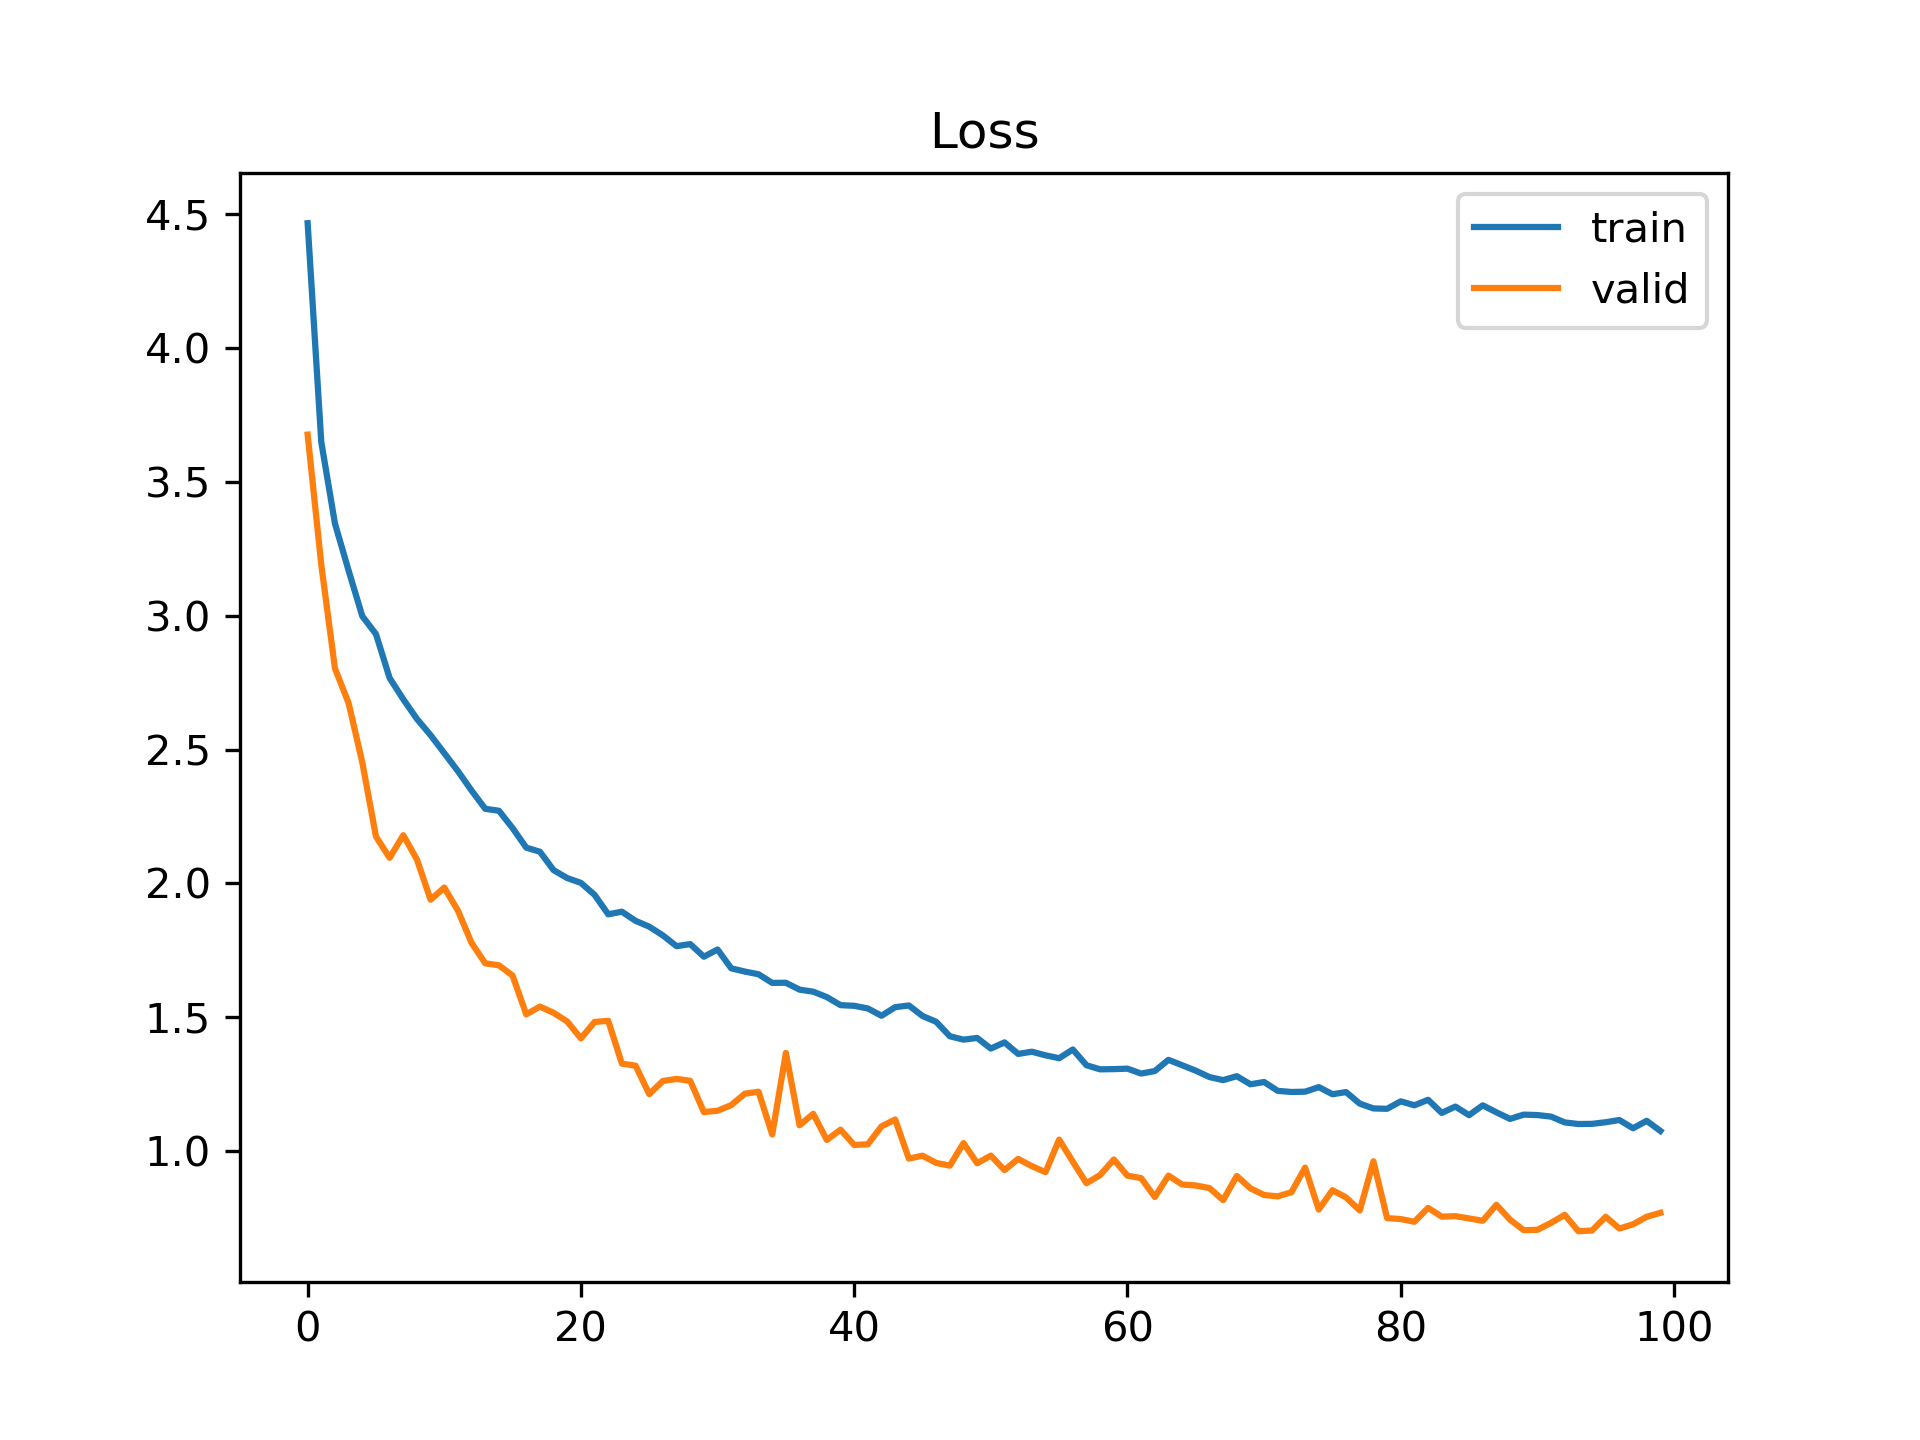
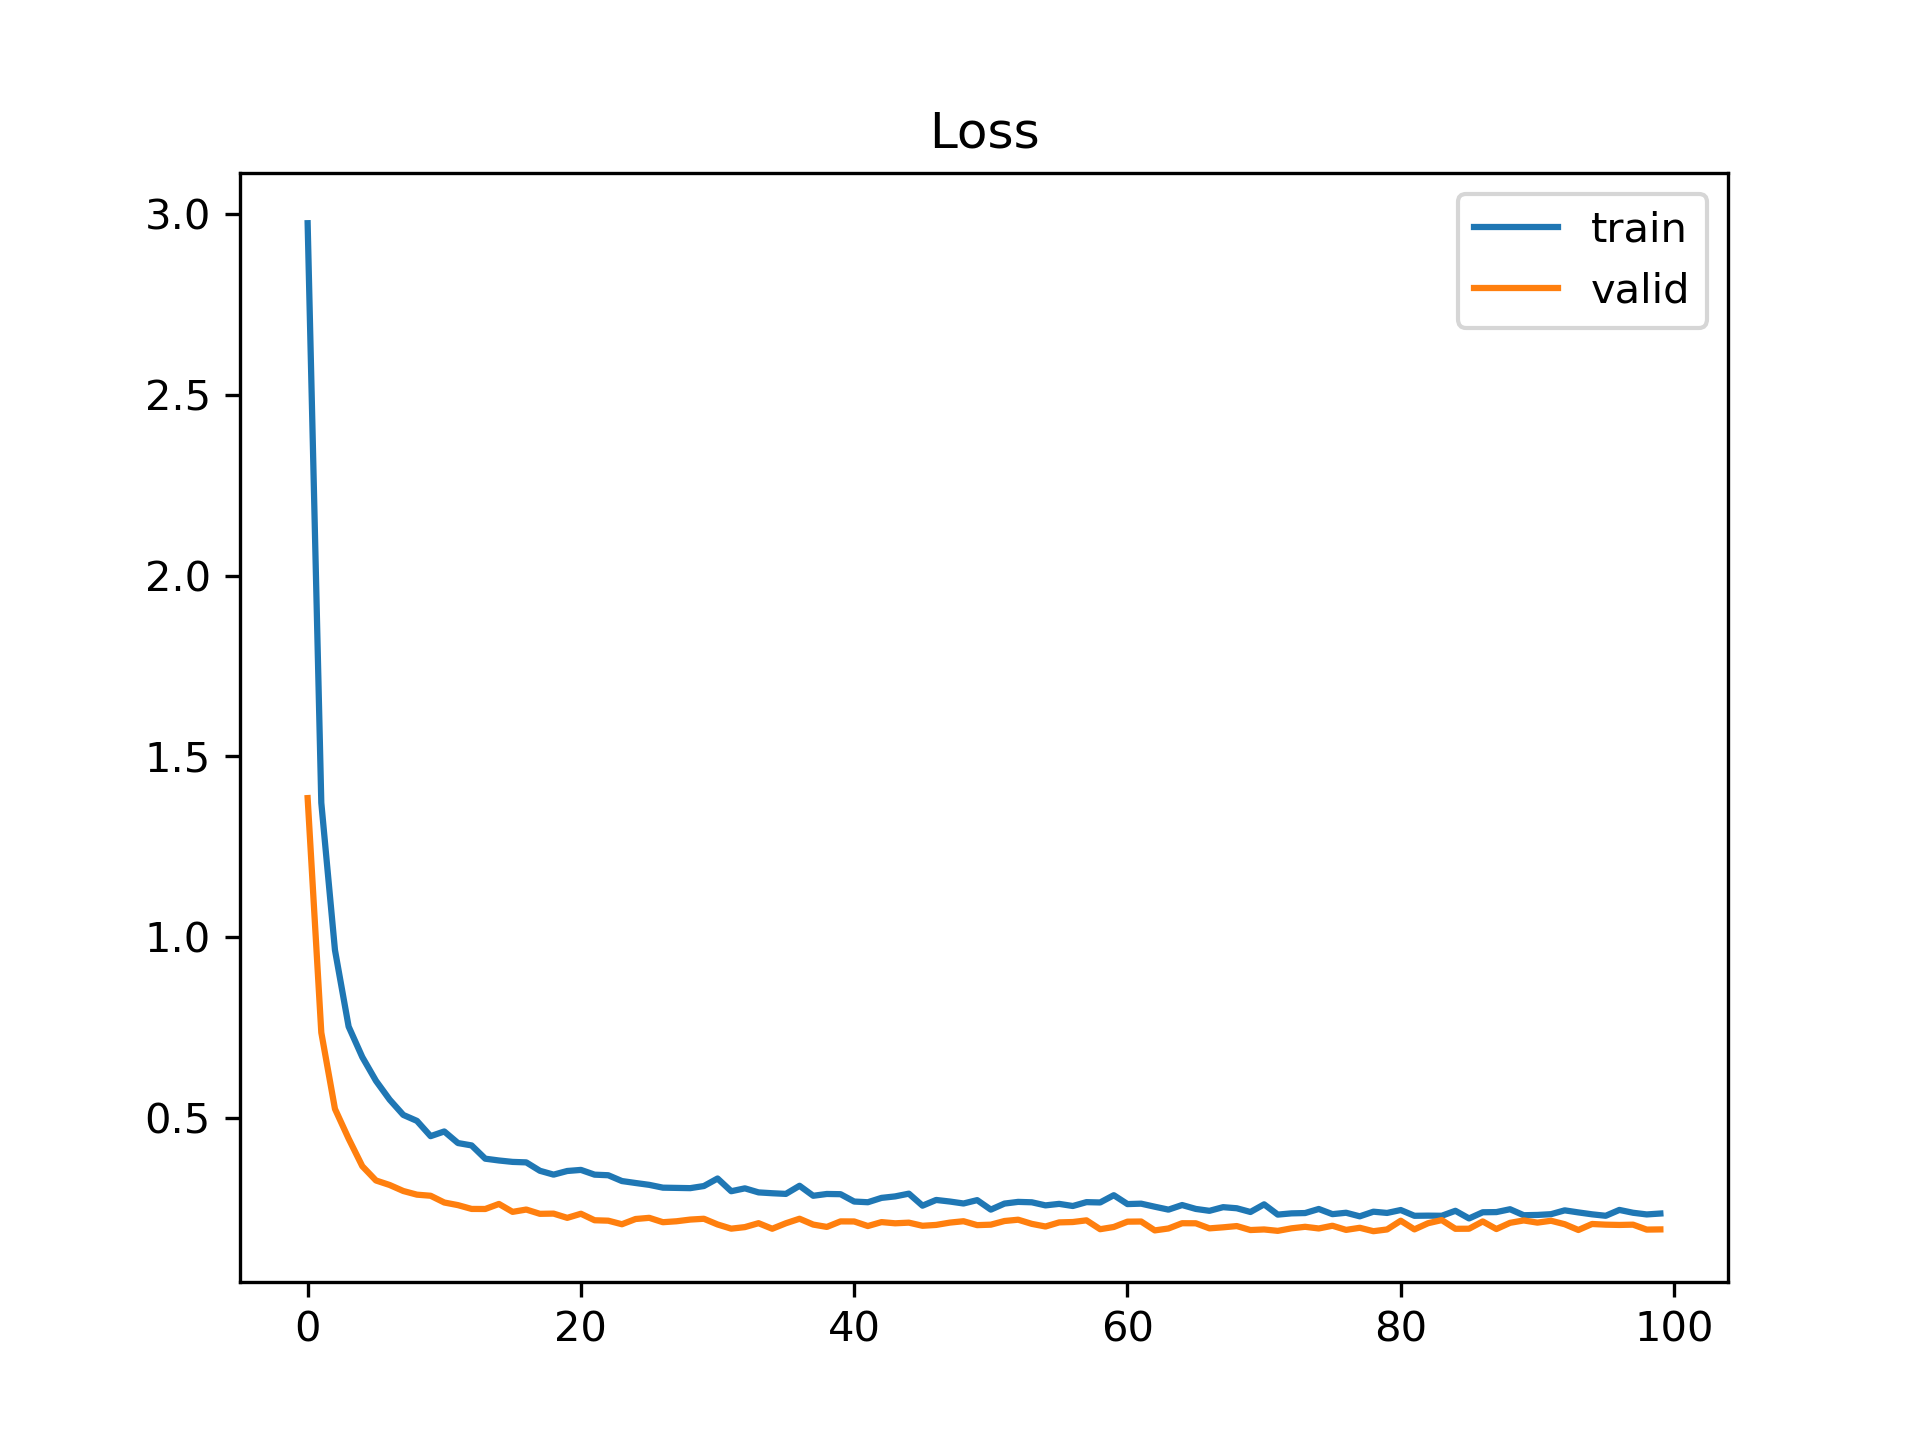
Finished training pretrained resnet

diff --git a/train.py b/train.py
@@ -23,16 +23,20 @@ import pdb
 if __name__ == '__main__':
     # ==== Later move this part to config.yaml or argparse
     batch_size = 32
-    num_epochs = 100
-    model_type = 'pretrained'
-    model_name = "resnet18.pth.tar" # when saving model
+    num_epochs = 25
+    model_type = 'resnet34'
+    model_name = model_type + '.pth.tar' # when saving model
 
     # Specifying some paths
     DATA_DIR = Path("data")
-    RESULTS_DIR = Path("results")
+    RESULTS_DIR = Path("results") / model_type
+    LOG_DIR = RESULTS_DIR / "logs"
+    FIG_DIR = RESULTS_DIR / "figures"
     # Just checking if the directory exists, if not creating
     check_dir_and_create(str(DATA_DIR))
     check_dir_and_create(str(RESULTS_DIR))
+    check_dir_and_create(str(LOG_DIR))
+    check_dir_and_create(str(FIG_DIR))
 
     # Data URL
     URL = "https://s3.amazonaws.com/content.udacity-data.com/courses/nd188/flower_data.zip"
@@ -40,7 +44,7 @@ if __name__ == '__main__':
     ZIP_NAME = "flower_data.zip"
 
     # Custom function for logging
-    log = set_logger(str(RESULTS_DIR), "pytorch_challenge.py.log")
+    log = set_logger(str(LOG_DIR), "pytorch_challenge.py.log")
 
     # Using a custom function to download the data
     download_data(data_dir=DATA_DIR, data_name=DATA_NAME, zip_name=ZIP_NAME, url=URL)
@@ -58,7 +62,7 @@ if __name__ == '__main__':
             mean=[0.5, 0.5, 0.5],
             std=[0.5, 0.5, 0.5]
         )
-    elif model_type == 'pretrained':
+    else:
         normalization = transforms.Normalize(
             mean=[0.485, 0.456, 0.406],
             std=[0.229, 0.224, 0.225]
@@ -85,12 +89,13 @@ if __name__ == '__main__':
     # Building a model
     params = {
         'nc': num_classes
+        'model_type': model_type
     }
 
     # Define the model
     if model_type == 'simplecnn':
         model = SimpleCNN(params)
-    elif model_type == 'pretrained':
+    else:
         model = Pretrained(params)
 
     # Make sure to put the model into GPU
@@ -117,5 +122,5 @@ if __name__ == '__main__':
     torch.save(model.state_dict(), str(RESULTS_DIR / model_name))
 
     # Log the results and save the figures
-    fig_loss_acc(t_loss, v_loss, "loss", RESULTS_DIR)
-    fig_loss_acc(t_acc, v_acc, "acc", RESULTS_DIR)
+    fig_loss_acc(t_loss, v_loss, "loss", FIG_DIR)
+    fig_loss_acc(t_acc, v_acc, "acc", FIG_DIR)

diff --git a/model/model.py b/model/model.py
@@ -69,16 +69,27 @@ class SimpleCNN(nn.Module):
 
 def Pretrained(params):
     # Load the pretrained model from torchvision
-    resnet18 = models.resnet18(pretrained=True)
+    if params['model_type'] == 'resnet18':
+        model = models.resnet18(pretrained=True)
+    elif params['model_type'] == 'resnet34':
+        model = models.resnet34(pretrained=True)
+    elif params['model_type'] == 'resnet50':
+        model = models.resnet50(pretrained=True)
+    elif params['model_type'] == 'resnet101':
+        model = models.resnet101(pretrained=True)
+    elif params['model_type'] == 'resnet152':
+        model = models.resnet152(pretrained=True)
+    else:
+        raise "There is no model you specified."
     # Freeze the parameters in the conv layers
-    for param in resnet18.parameters():
+    for param in model.parameters():
         param.requires_grad = False
     # Replace the last fully-connected layer to our needs
     # extract the number of input features to the last fc layer
-    num_features = resnet18.fc.in_features
+    num_features = model.fc.in_features
     # construct a new fc layer with our number of output classes
-    resnet18.fc = nn.Linear(num_features, params['nc'])
+    model.fc = nn.Linear(num_features, params['nc'])
 
-    return resnet18
+    return model
 
 

diff --git a/utils/util.py b/utils/util.py
@@ -30,3 +30,5 @@ def check_dir_and_create(dir_path):
         print("The directory is missing, creating one")
         os.mkdir(dir_path)
 
+
+

diff --git a/README.md b/README.md
@@ -54,8 +54,12 @@ source activate pytorch_challenge
 - [x] Write requirements.yml for easy replication
 - [x] Write data_loader with a3 link to download the data into the folder
 - [x] Write train.py
-- [ ] Optimize the hyperparameters
-- [ ] Implement transfer learning using pre-trained models
+- [ ] Optimize the hyperparameters (try optuna and ray)
+- [x] Implement transfer learning using pre-trained models
+- [ ] Create a notebook for validation of the results.
+    - [ ] Load the pre-trained network of yours
+    - [ ] Visualize the example results
+    - [ ] Plot confusion matrix or something
 
 ## Feedbacks
 Any feedback would be greatly appreciated. Please feel free to file a github issue if you have one.
